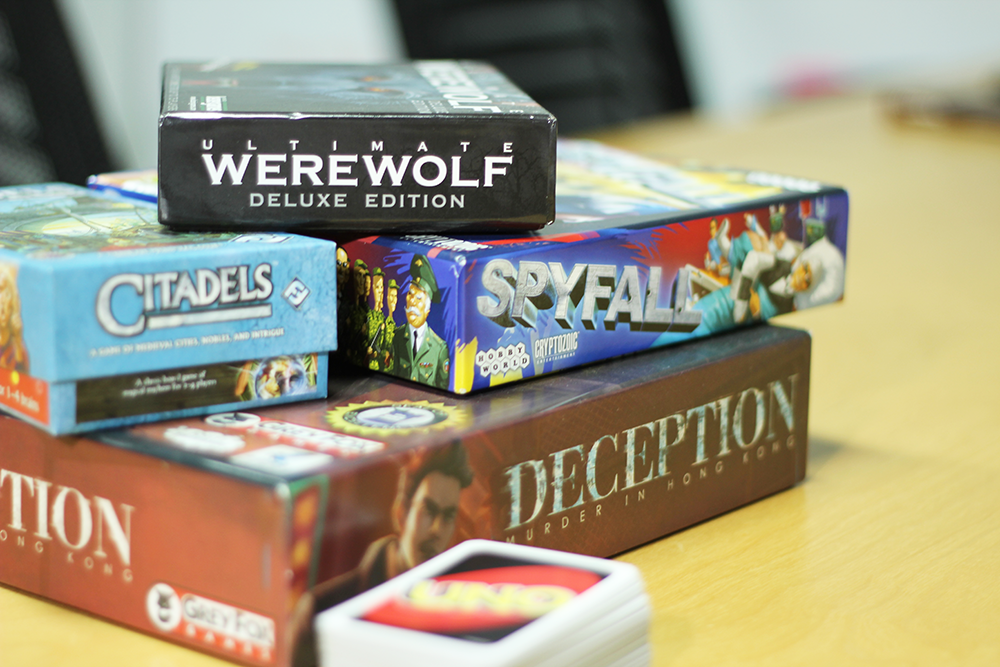
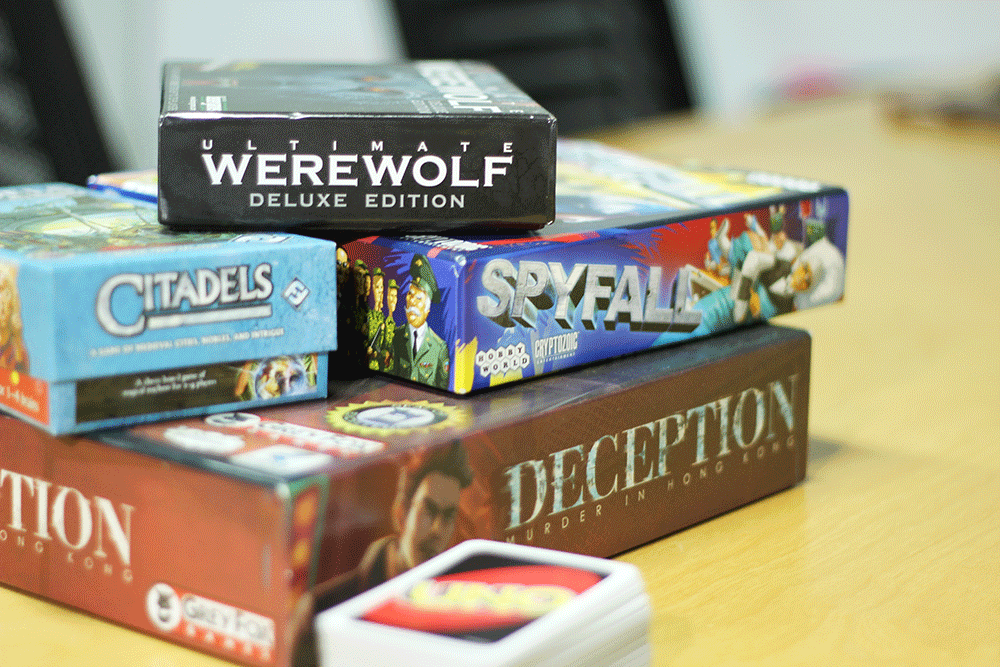
Optimize images and delete unused images

diff --git a/src/app/career/career.component.html b/src/app/career/career.component.html
@@ -5,7 +5,7 @@
     <h1 data-aos="zoom-in" data-aos-offset="150" data-aos-easing="ease-in-out" data-aos-duration="600">CAREERS</h1>
     <p data-aos="zoom-in" data-aos-offset="150" data-aos-easing="ease-in-out" data-aos-duration="700">Funny, purposeful team. Make an impact. Daily dose of growth vitamin</p>
     <div data-aos="fade-up" data-aos-offset="150" data-aos-easing="ease-in-out" data-aos-duration="800">
-      <button class="button button--wayra" id="openPosition">Open Positions</button>
+      <button class="button button--wayra" id="openPosition" (click)="scrollToJob()">Open Positions</button>
     </div>
   </div>
 </div>
@@ -50,8 +50,8 @@
         </strong>, and read on.</p>
     </div>
     <div class="col-md-5 codium-promo-image">
-      <img src="../../assets/images/careers/threefriends.jpg" alt="" class="img-fluid">
-      <img src="../../assets/images/careers/jamesit.jpg" alt="" class="img-fluid ontop-image">
+      <img src="../../assets/images/careers/threefriends.png" alt="" class="img-fluid">
+      <img src="../../assets/images/careers/jamesit.png" alt="" class="img-fluid ontop-image">
     </div>
   </div>
 </div>
@@ -64,13 +64,13 @@
       Whiteboard, flashcards, post-its, fitting notebooks and pens, code reviews, 10AM daily standup, international</p>
     <div class="row culture-image">
       <div class="col-md-4">
-        <img src="../../assets/images/careers/codereview.jpg" alt="" class="img-fluid">
+        <img src="../../assets/images/careers/codereview.png" alt="" class="img-fluid">
       </div>
       <div class="col-md-4">
-        <img src="../../assets/images/careers/taskboard.jpg" alt="" class="img-fluid">
+        <img src="../../assets/images/careers/taskboard.png" alt="" class="img-fluid">
       </div>
       <div class="col-md-4">
-        <img src="../../assets/images/careers/meeting.jpg" alt="" class="img-fluid">
+        <img src="../../assets/images/careers/meeting.png" alt="" class="img-fluid">
       </div>
     </div>
   </div>
@@ -88,15 +88,15 @@
     <div class="joke-block">
       <div class="row">
         <div class="col-md-6">
-          <img src="../../assets/images/careers/boardgameplay2.jpg" alt="" class="img-fluid">
+          <img src="../../assets/images/careers/boardgameplay2.png" alt="" class="img-fluid">
         </div>
         <div class="col-md-3">
-          <img src="../../assets/images/careers/funny1.jpg" alt="" class="img-fluid">
-          <img src="../../assets/images/careers/funny2.jpg" alt="" class="img-fluid m-t-20">
+          <img src="../../assets/images/careers/funny1.png" alt="" class="img-fluid">
+          <img src="../../assets/images/careers/funny2.png" alt="" class="img-fluid m-t-20">
         </div>
         <div class="col-md-3">
-          <img src="../../assets/images/careers/game_face.JPG" alt="" class="img-fluid">
-          <img src="../../assets/images/careers/funny3.jpg" alt="" class="img-fluid m-t-20">
+          <img src="../../assets/images/careers/game_face.png" alt="" class="img-fluid">
+          <img src="../../assets/images/careers/funny3.png" alt="" class="img-fluid m-t-20">
         </div>
       </div>
     </div>
@@ -110,7 +110,7 @@
     <p class="text-center wrapper-700">We pride ourselves in making our people happy and motivated. Below is what you can expect when you join our team</p>
     <div class="row benefit-detail">
       <div class="col-md-6">
-        <img src="../../assets/images/careers/compensation.jpg" alt="" class="img-fluid">
+        <img src="../../assets/images/careers/compensation.png" alt="" class="img-fluid">
       </div>
       <div class="col-md-6 benefit-description">
         <h4>Compensation</h4>
@@ -159,7 +159,7 @@
         <img src="../../assets/images/careers/outing2-cut.png" alt="" class="img-fluid">
       </div>
       <div class="col-md-6">
-        <img src="../../assets/images/careers/siamatsiam.jpg" alt="" class="img-fluid">
+        <img src="../../assets/images/careers/siamatsiam.png" alt="" class="img-fluid">
       </div>
       <div class="col-md-6 benefit-description">
         <h4>The Daily Commute</h4>

diff --git a/src/app/career/career.component.scss b/src/app/career/career.component.scss
@@ -131,21 +131,12 @@ h5 {
 
 #headerSection {
   padding: 170px 0;
-  // background-image: url("../../assets/images/careers/aungcode.jpg");
-  background: lighten(#153343, 5%);
+   background-image: url("../../assets/images/careers/aungcode_bg.png");
+  //background: lighten(#153343, 5%);
   background-size: cover;
   background-position: right;
   position: relative;
   color: #ffffff;
-  // .overlay {
-  //   position: absolute;
-  //   top: 0;
-  //   width: 100%;
-  //   background: lighten(#153343, 10%);
-  //   opacity: 1;
-  //   height: 100%;
-  //   z-index: 1;
-  // }
   h1 {
     color: #ffffff;
     font-size: 60px;

diff --git a/src/app/career/career.component.ts b/src/app/career/career.component.ts
@@ -1,4 +1,5 @@
 import { Component, OnInit } from '@angular/core';
+import * as $ from 'jquery';
 
 @Component({
   selector: 'app-career',
@@ -7,9 +8,16 @@ import { Component, OnInit } from '@angular/core';
 })
 export class CareerComponent implements OnInit {
 
-  constructor() { }
+  constructor() {
+  }
 
   ngOnInit() {
+  }
+
+  scrollToJob() {
+    $('html, body').animate({
+      scrollTop: $('#jobDescriptionSection').offset().top
+    }, 500);
   }
 
 }
